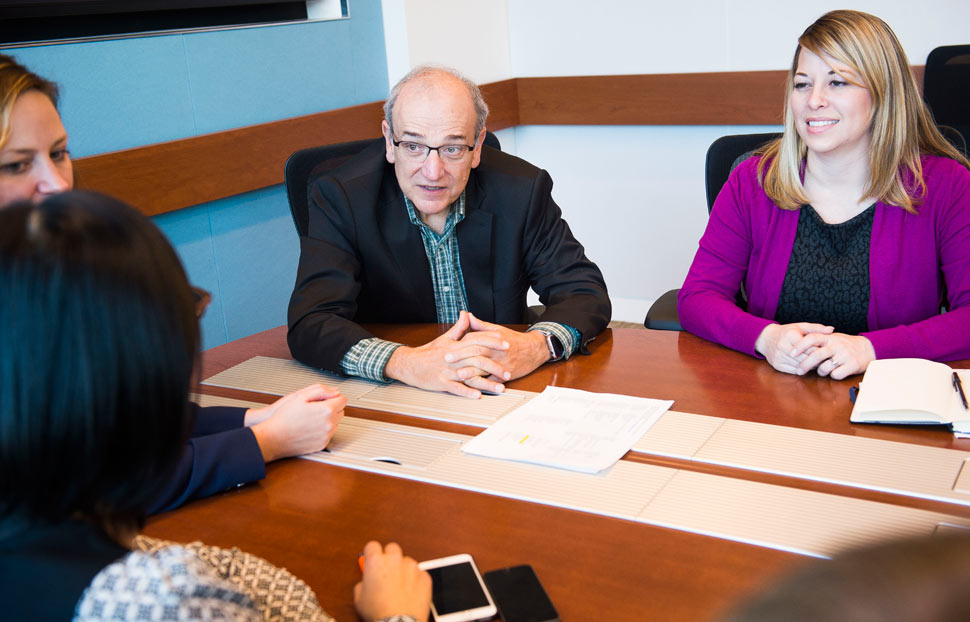
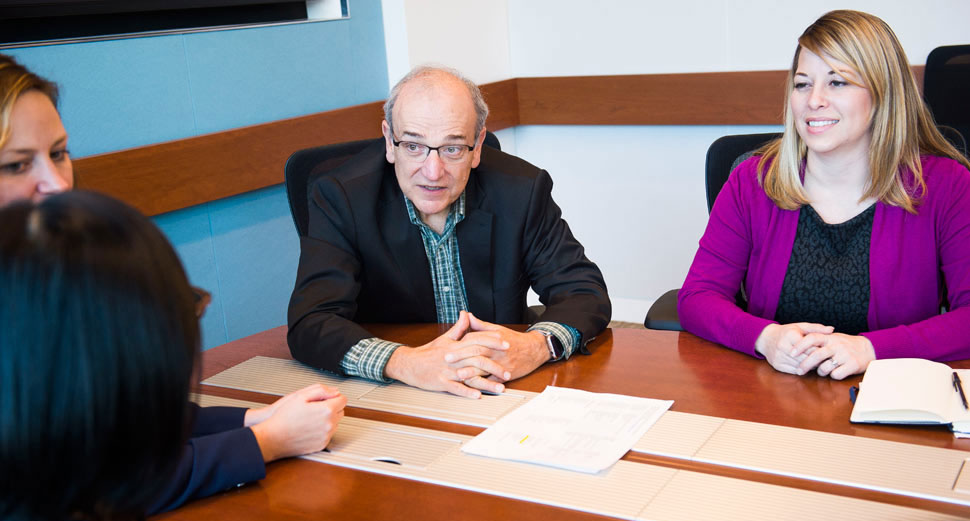
BRP Updates

diff --git a/brp/research/constructs/worry.html b/brp/research/constructs/worry.html
@@ -427,7 +427,7 @@ height="0" width="0" style="display:none;visibility:hidden" title="Google Tag Ma
                         <p class="center"><strong><em>The Penn State Worry Questionnaire (PSWQ)</em></strong></p>
 			
             <p>Below are some statements about worrying.  Please circle one number (1-5) next to each statement that describes how typical that statement is for you.</p>
-            <table class="table table-striped table-bordered table-condensed responsive" summary="Please circle one number (1-5) next to each statement that describes how typical that statement is for you.">
+            <table class="table table-striped table-bordered table-condensed responsive" summary="Please circle one number (1-5) next to each statement that describes how typical that statement is for you." role="presentation">
   			  <tr>
     			<th scope="col">&nbsp;</th>
     			<th scope="col">&nbsp;</th>
@@ -583,7 +583,7 @@ height="0" width="0" style="display:none;visibility:hidden" title="Google Tag Ma
   			  </tr>
 			</table>
 <p><strong>The Worry Domains Questionnaire</strong></p>
-<table class="table table-striped table-bordered table-condensed responsive" summary="Please circle one number (1-5) next to each statement that describes how typical that statement is for you.">
+<table class="table table-striped table-bordered table-condensed responsive" summary="Please circle one number (1-5) next to each statement that describes how typical that statement is for you." role="presentation">
   <tr>
     <th scope="col" colspan="2"><em><strong>I worry...</strong></em></th>
     <th scope="col"><em>Not at all</em></th>

diff --git a/brp/career_training.html b/brp/career_training.html
@@ -214,10 +214,10 @@ height="0" width="0" style="display:none;visibility:hidden" title="Google Tag Ma
         <!-- InstanceBeginEditable name="Main Content" -->
         <h2 class="first">Work with Us</h2>
         <div class="row">
-          <div class="col-md-7">
+          <div class="col-md-6">
             <p class="intro">All scientific, administrative, and fellowship opportunities in the Behavioral Research Program are listed below. For federal positions, the program posts vacancy announcements ahead of the listing on <a href="https://www.usajobs.gov/" target="_blank">usajobs.gov</a>, where all federal positions must be listed. Potential fellows are encouraged to speak with <a href="https://staffprofiles.cancer.gov/brp/prgmStaffList.do?listType=flw&listCodeId=1177963">current fellows</a> or <a href="https://staffprofiles.cancer.gov/brp/prgmStaffList.do?listType=stf">staff</a> throughout the application process.</p>
           </div>
-          <div class="col-md-5">
+          <div class="col-md-6">
 			  <img src="/brp/images/brp-4084.jpg" class="img-responsive" alt="">
           </div>
           <!-- /.col-md-4 -->
